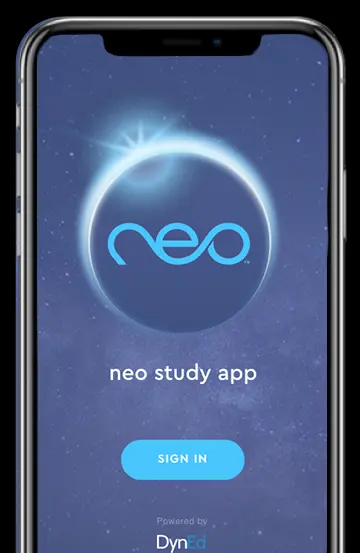
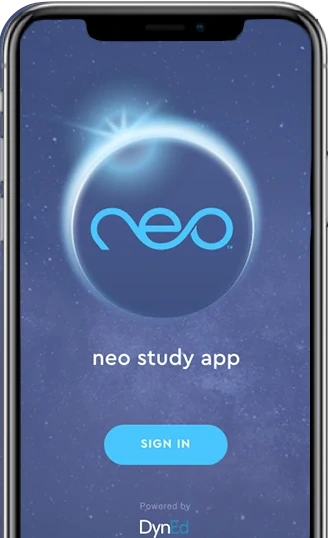
Hide other page in footer and add croped download-phone.png/webp files

diff --git a/footer-en.php b/footer-en.php
@@ -9,7 +9,7 @@
 					</div>
 					
 					<div class="col-lg-2 col-md-4 col-sm-6">
-						<h5>other page</h5>
+            <h5 style="visibility: hidden;">other page</h5>
 						<a href="https://nexgenenglishonline.co/" target="_blank"><p>Our Company</p></a>
 						<a href="https://myneo.space/privacy-policy" target="_blank"><p>Privacy Policy</p></a>
 						<a href="https://myneo.space/terms&conditions" target="_blank"><p>Terms &amp; Conditions</p></a>

diff --git a/footer.php b/footer.php
@@ -9,7 +9,7 @@
 					</div>
 					
 					<div class="col-lg-2 col-md-4 col-sm-6">
-						<h5>other page</h5>
+            <h5 style="visibility: hidden;">other page</h5>
 						<a href="https://nexgenenglishonline.co/" target="_blank"><p>Our Company</p></a>
 						<a href="https://myneo.space/privacy-policy" target="_blank"><p>Privacy Policy</p></a>
 						<a href="https://myneo.space/terms&conditions" target="_blank"><p>Terms &amp; Conditions</p></a>
